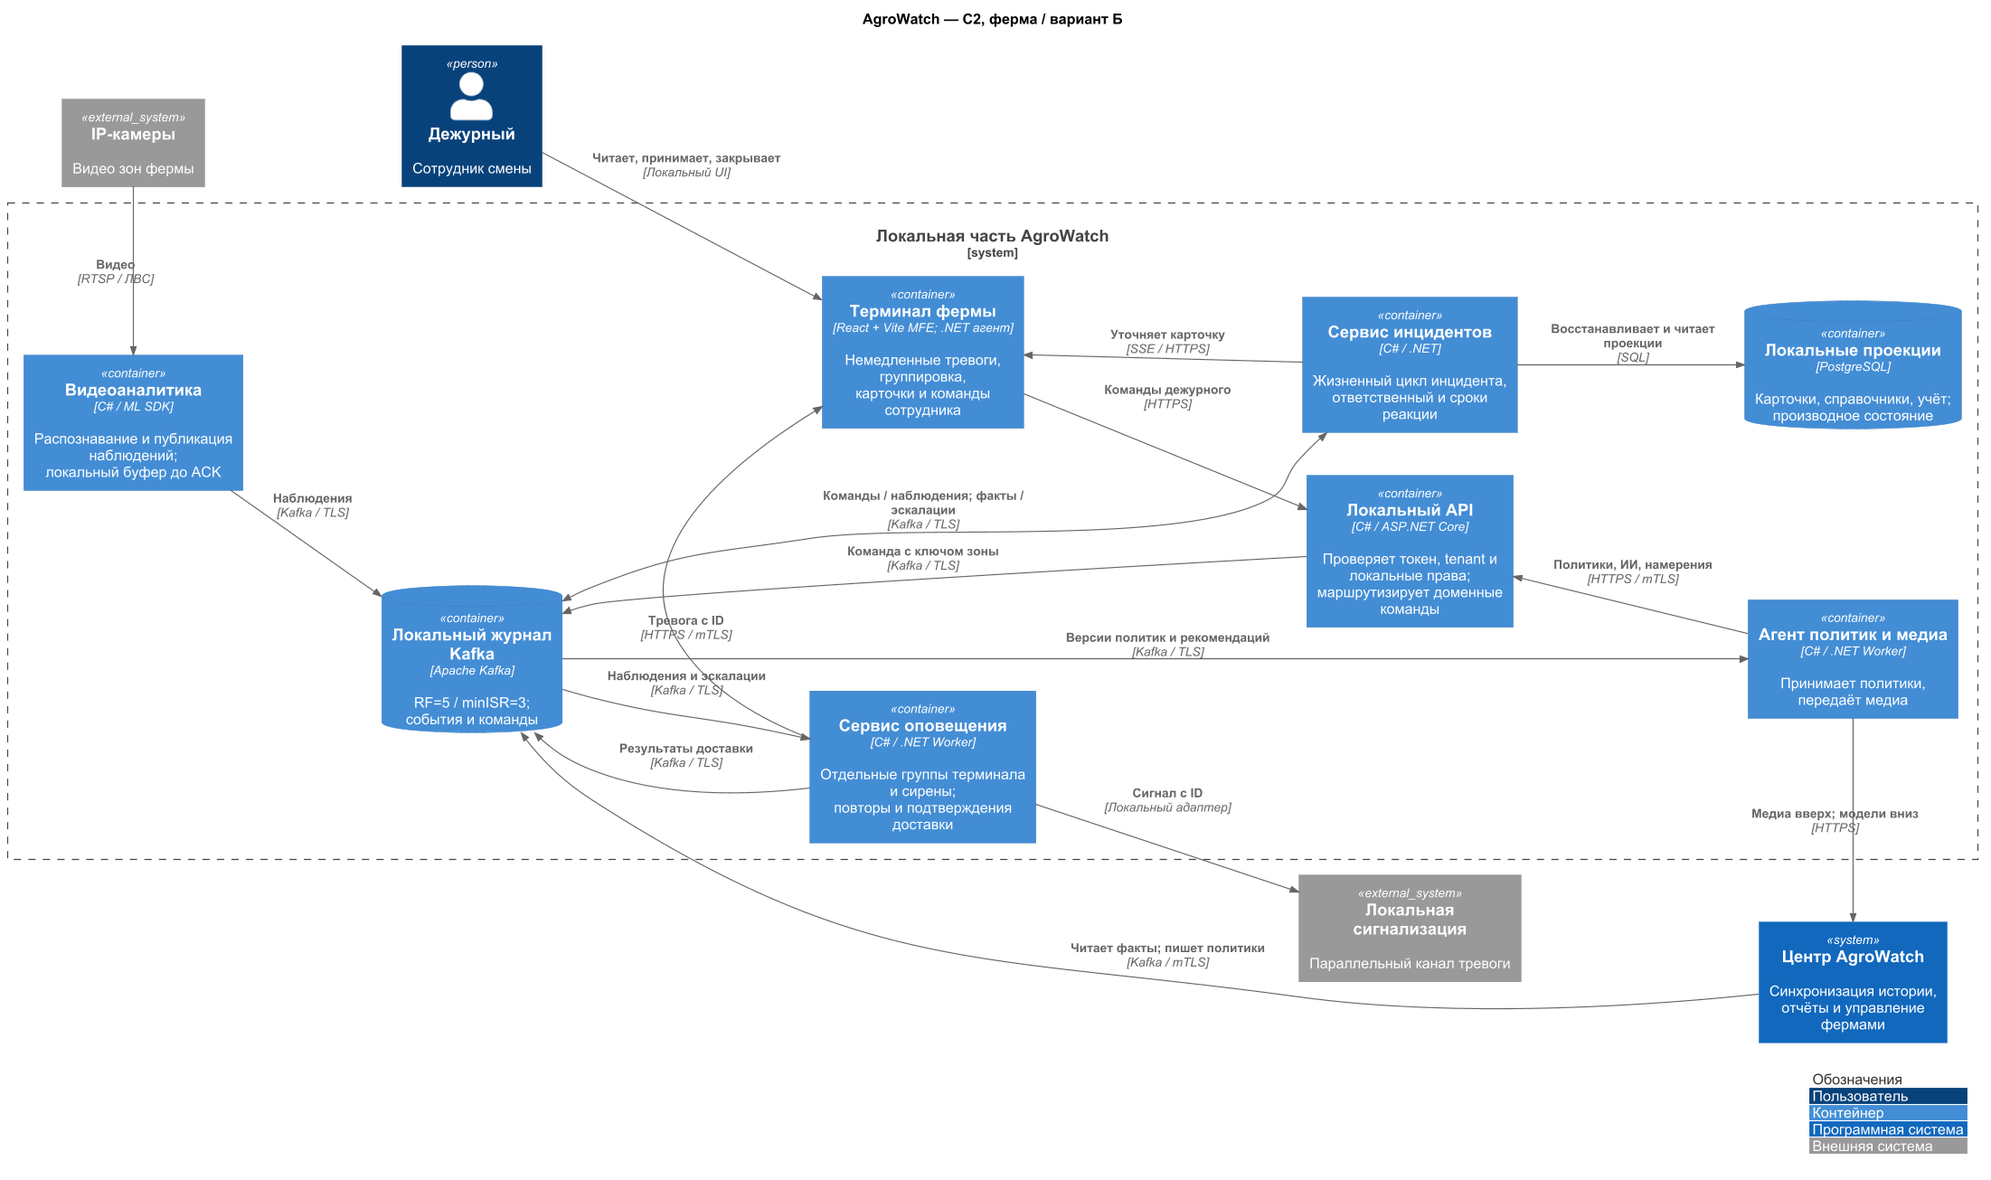
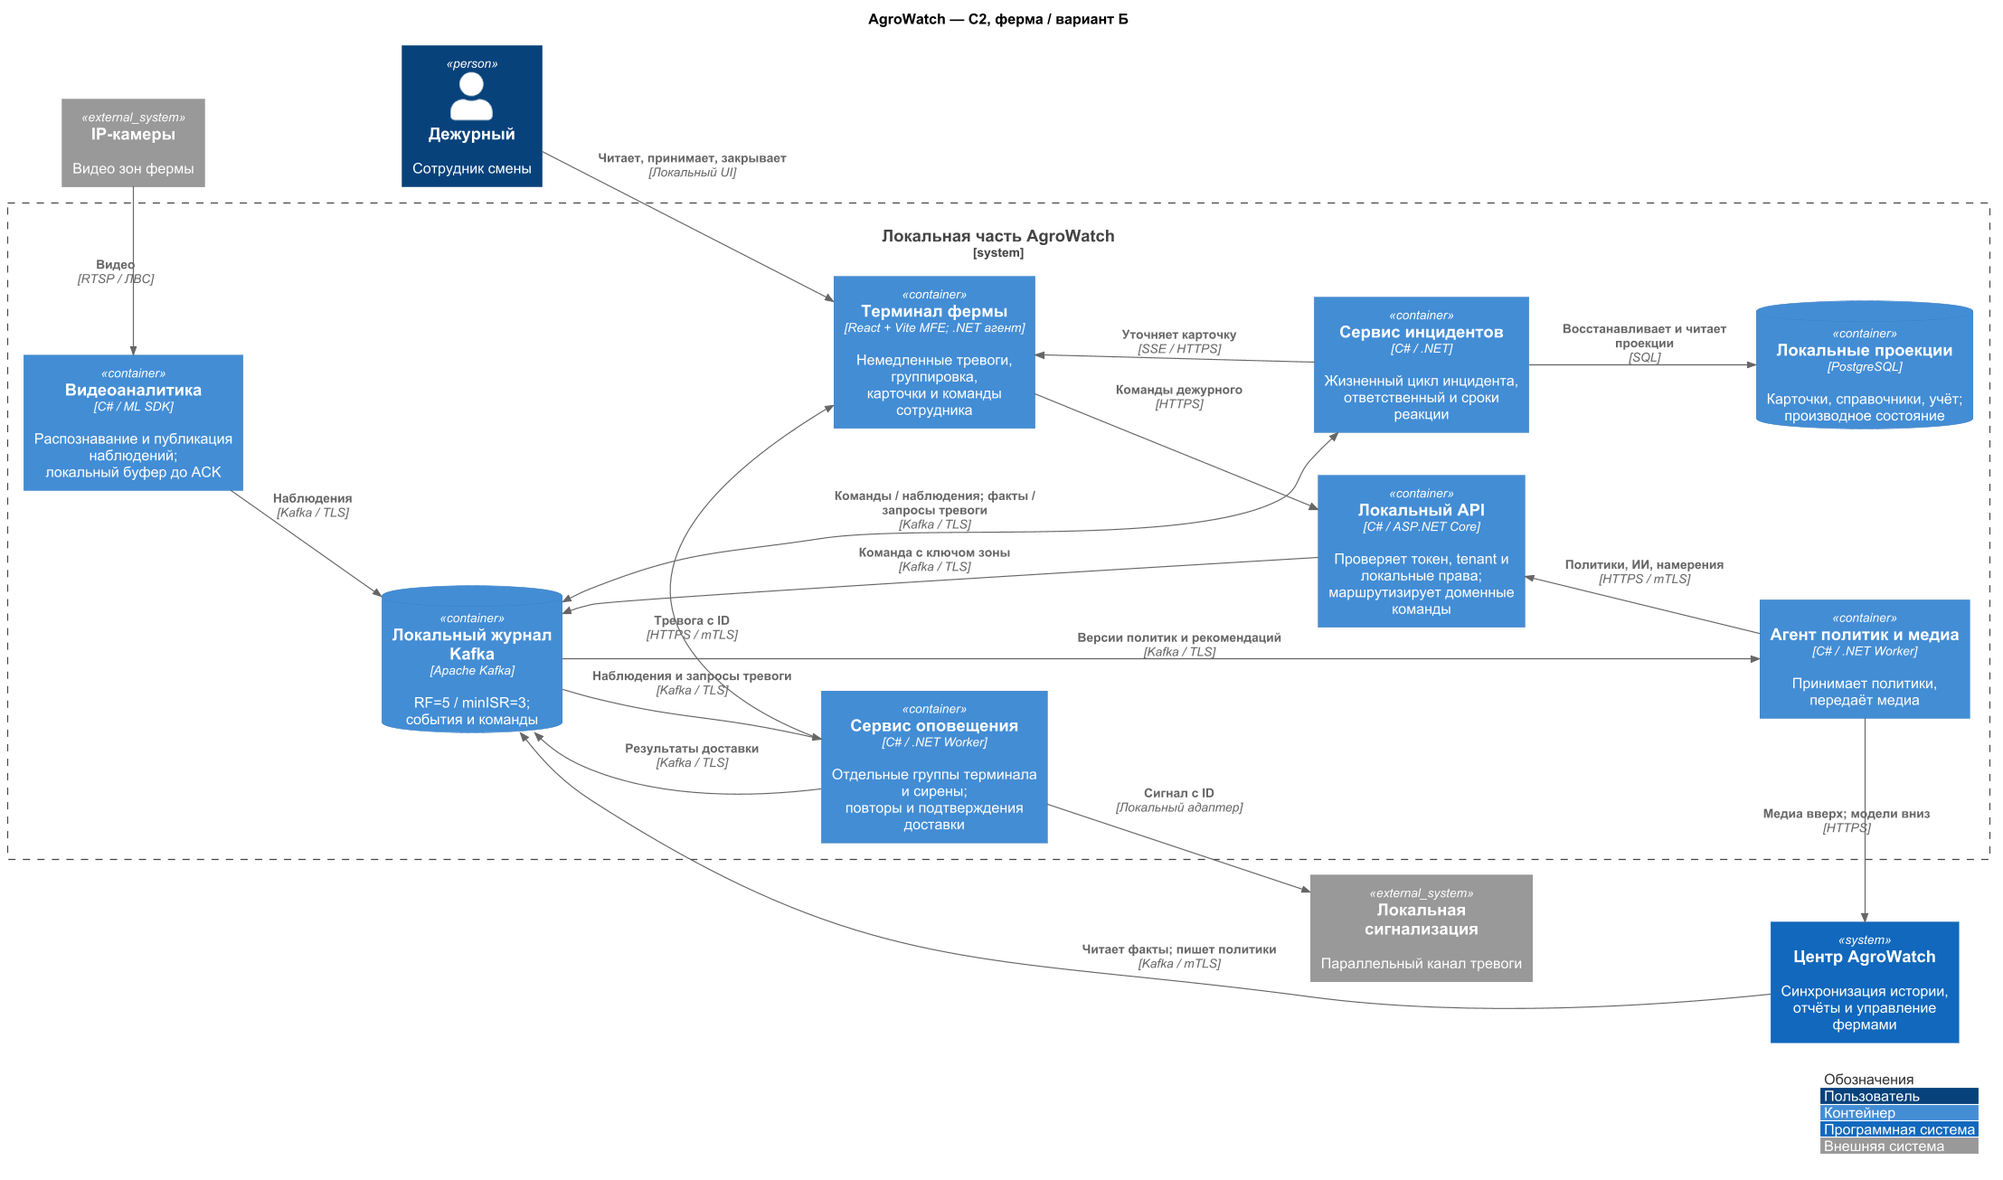
Добавить ручную регистрацию инцидентов и режимы ИИ

diff --git a/appendix/incident-event-contract.md b/appendix/incident-event-contract.md
@@ -8,7 +8,7 @@
 
 События: ObservationRecorded, IncidentOpened, SubreportAdded, AlertDelivered, IncidentAccepted, ResponsibilityTransferred, AiRecommendationAppended, IncidentClosed. У каждого event_id, tenant_id, farm_id, zone_id, occurred_at, received_at, schema_version; команды имеют idempotency key и expected_version.
 
-Один ответственный после принятия; передача завершается только после подтверждения новым. Эскалация не снимает текущую ответственность. ACK сирены не принятие человеком. Критичный исход закрывает человек. ИИ вправе закрыть доказанную ошибку подсчёта без изменения учётного поголовья или техническую неисправность после проверки восстановления; связанные опасности не закрывает.
+Один исполнитель по карточке после принятия; передача завершается только после подтверждения новым. Это отметка «занимаюсь этим случаем», а не установление трудовой или юридической ответственности сотрудника. Эскалация не снимает текущего исполнителя. ACK сирены не означает, что сотрудник занялся конкретной карточкой. Критичный исход закрывает человек. Закрытие ИИ возможно только при включённой политике для разрешённых случаев низкого риска; связанные опасности не закрывает. [Режимы и ограничения](ai-risk-autonomy.md).
 
 ИИ анализирует асинхронно и добавляет рекомендацию отдельно, сохраняя наблюдения. Сбой ИИ не блокирует карточку; несрочный инцидент сотрудник может прочитать после анализа, срочный требует сразу идти на место.
 
@@ -17,3 +17,11 @@
 Сигнализация ведёт активную тревогу по зоне: новые подрепорты дополняют её причины, а не обозначают число животных. Снятие звука не принимает и не закрывает инцидент; новая подтверждённо отдельная опасность подаёт сигнал снова. Дедупликация observation_id защищает от транспортного повтора, но не обещает физическое exactly-once после потери подтверждения или перезапуска получателя.
 
 В Б оповещение и инциденты — независимые потребители наблюдений. Результаты каждого канала фиксируются с observation_id и receiver_id; consumer offset не подтверждается как успешно доставленный до устойчивой фиксации результата/задания повтора. Сбой после физического сигнала до фиксации результата допускает повтор; дедупликация получателя снижает его. Восстановление live-consumer доставляет незавершённое, исторический replay проекций не вызывает получателей.
+
+## Ручная карточка
+
+Сотрудник может создать инцидент с зоной, описанием и временем фактического происшествия. Система отдельно сохраняет время внесения и пользователя. В форме есть явный выбор: **«Оповестить»** (включён для нового текущего случая) или **«Только журнал»**. Второй режим нужен для уже оказанной помощи, записи после простоя и случая, которым сотрудник уже занимается. Режим записи и состояние карточки независимы: отсутствие звука не означает закрытия; для закрытия нужен исход.
+
+В варианте Б команда из терминала проходит через локальный API и Kafka в сервис инцидентов. Сервис проверяет права и повтор команды, создаёт карточку с `source=manual`; только при выборе «Оповестить» публикует `AlertRequested` с устойчивым ID. Сервис оповещения читает этот запрос из Kafka и запускает обычные каналы терминала и сирены. «Только журнал» не создаёт запрос тревоги или автоматические повторные вызовы по этой записи. Сотрудник может позднее явно запросить оповещение.
+
+При недоступной Kafka ручное реагирование выполняется вне системы по регламенту фермы. Неподтверждённая запись в интерфейсе не считается сохранённым инцидентом. После восстановления сотрудник переносит записи о прошедших случаях в режиме «Только журнал». Это не обход Kafka для звукового оповещения.

diff --git a/appendix/ai-risk-autonomy.md b/appendix/ai-risk-autonomy.md
@@ -2,6 +2,12 @@
 
 Распознавание опасности и асинхронный текстовый триаж — разные функции. Первое обнаружение модели приводит к тревоге. Триаж позже читает подрепорты и пишет рекомендацию внизу карточки.
 
-ИИ и интерфейс вызывают одни доменные обработчики. Риск и допустимое действие проверяются сервером. Критичные опасности и фактические изменения учёта не закрываются произвольным текстовым выводом ИИ. Разрешены доказанная ошибка подсчёта без изменения учётного числа и закрытие технической карточки камеры после проверки восстановления видеопотока и аналитики. Ping не доказательство восстановления наблюдения. Связанные опасности остаются открытыми.
+ИИ и интерфейс вызывают одни доменные обработчики. Риск и допустимое действие проверяются сервером. Критичные опасности и фактические изменения учёта не закрываются произвольным текстовым выводом ИИ. При отдельно разрешённой автономности возможны доказанная ошибка подсчёта без изменения учётного числа и закрытие технической карточки камеры после проверки восстановления видеопотока и аналитики. Ping не доказательство восстановления наблюдения. Связанные опасности остаются открытыми.
 
 Рекомендация содержит ссылки на наблюдения, версию модели и время анализа; исходные данные не перезаписывает. Текст видео/внешних данных не является командой управления устройством.
+
+## Настройка участия ИИ
+
+Уполномоченный администратор выбирает режим для текстового помощника: **выключен**, **только рекомендации** или **разрешённые действия низкого риска**. Отключение помощника не отключает модель видеообнаружения. Самостоятельные действия требуют явного разрешения по категории и виду действия; можно полностью запретить их, сохранив рекомендации.
+
+Разрешение проверяется сервером при исполнении: категория, проверяемые признаки, права и актуальная версия политики. Одной оценки уверенности модели, например «95%», недостаточно. Критичная опасность животному не становится низкорисковой из-за высокого процента. Решение и его основания записываются в историю; неясность оставляет карточку человеку.

diff --git a/ADR/002-compute-pool.md b/ADR/002-compute-pool.md
@@ -28,6 +28,8 @@
 
 16 камер × 3 копии = 48 обработок. Пул: 5 × 10 = 50 слотов. Нагрузку с учётом Kafka, ОС, диска и вспомогательных сервисов нужно испытать; 10 потоков — требование к **полезной** мощности узла после этого резерва.
 
+Размещение 10/10/10/9/9 допустимо только при отдельной проверке каждой камеры: её три обработки должны находиться на **трёх разных физических вычислителях**. Три процесса на одной машине не дают защиты от её отказа. Это правило сохраняется при переносе и обновлении обработчиков; суммы 48 и 50 сами по себе отказоустойчивость не доказывают.
+
 ## Альтернативы
 
 16 узлов × 3 обработки = 48 слотов. Оба размещения выдерживают потерю любых двух вычислителей по покрытию камер. 5 узлов проще обслуживать, но запасной узел дороже. Цена равенства CAPEX: `5 × цена_10 = 16 × цена_3`; при 60 тыс. ₽ за малый узел порог — 192 тыс. ₽ за большой. [Расчёт](../appendix/compute-economics-5x10-vs-16x3.md).

diff --git a/Task3/README.md b/Task3/README.md
@@ -52,6 +52,8 @@ C3 в обоих вариантах раскрывает **контейнер «
 
 ## Дополнительные доменные модели
 
+Инцидент создаётся по наблюдению или вручную сотрудником. Для ручного ввода доступны «Оповестить» и «Только журнал»; запись задним числом не должна сама запускать сирену. [Контракт ручной карточки](../appendix/incident-event-contract.md) описывает путь через Kafka, права и результат. [Политика ИИ](../appendix/ai-risk-autonomy.md) позволяет отключить помощника, оставить рекомендации или разрешить конкретные низкорисковые действия.
+
 ![Состояния инцидента](diagrams/c4-incident.svg)
 
 [PNG](diagrams/c4-incident.png) · [PlantUML](diagrams/c4-incident.puml)
